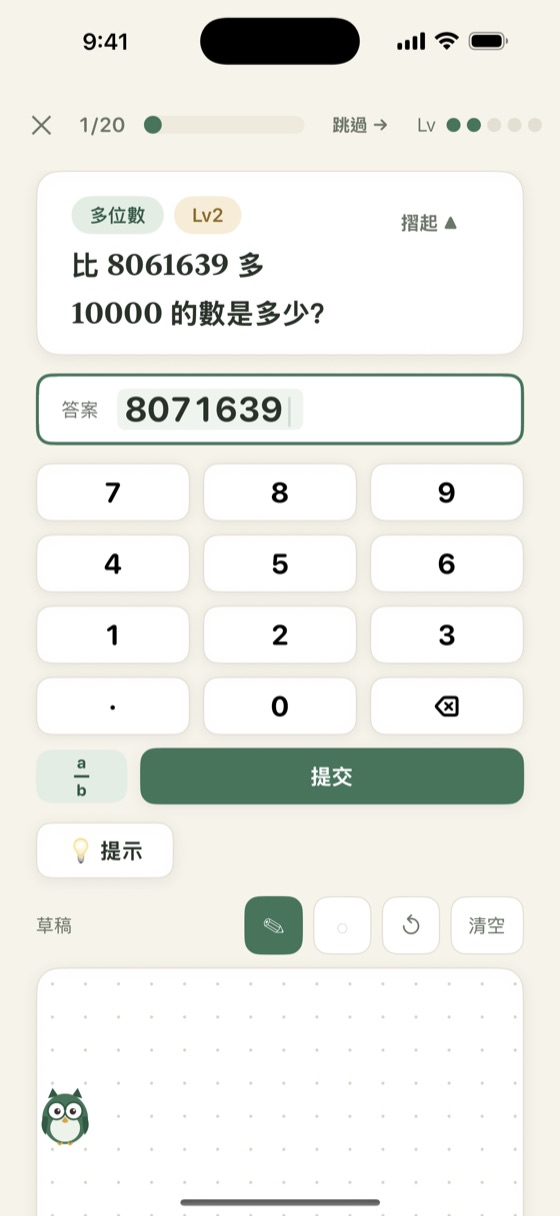
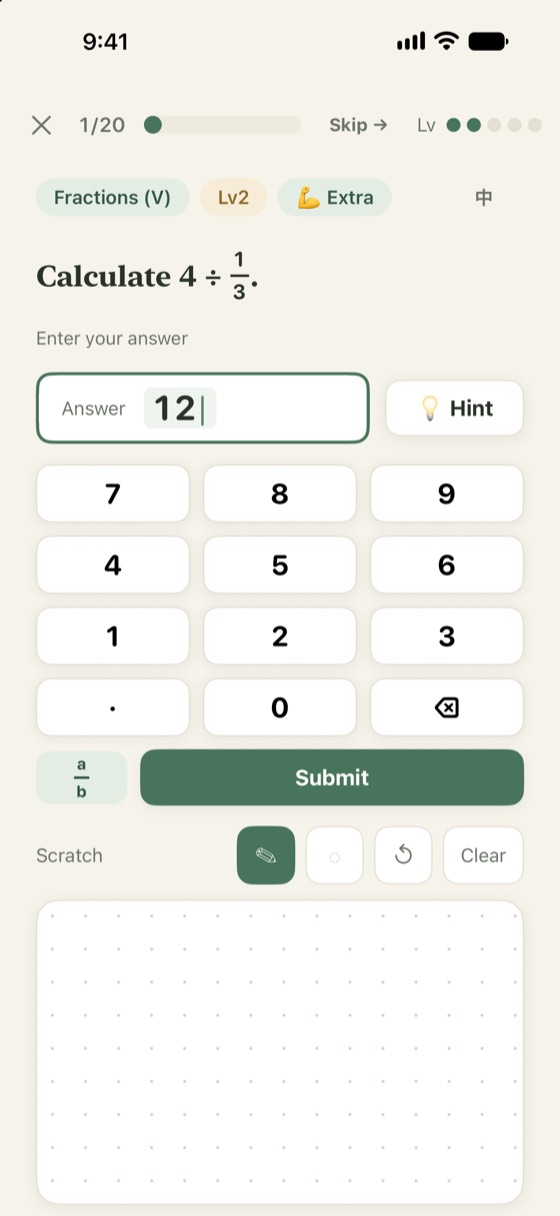
home: 換英文截圖 + 加每日速算(五張;hero 用速算結果頁)
示範檔案 Sam(P5)假數據,零真實小朋友資料。

diff --git a/index.html b/index.html
@@ -31,7 +31,7 @@
   .feature p { font-size: 15px; line-height: 1.6; color: var(--ink-soft); margin: 0; }
   .feature .tag { font-size: 12px; font-weight: 600; color: var(--moss); letter-spacing: .04em; text-transform: uppercase; }
 
-  .shots { display: grid; grid-template-columns: repeat(4, 1fr); gap: 16px; margin: 40px 0 8px; }
+  .shots { display: grid; grid-template-columns: repeat(5, 1fr); gap: 16px; margin: 40px 0 8px; }
   .shots figure { margin: 0; }
   .shots img { width: 100%; height: auto; border-radius: 18px; border: 1px solid var(--rule); display: block; }
   .shots figcaption { font-size: 13px; color: var(--ink-soft); margin-top: 8px; text-align: center; }
@@ -69,7 +69,7 @@
     </ul>
     <span class="cta">Coming soon to the App Store<small>iOS 17 or later</small></span>
   </div>
-  <div class="phone"><img src="img/S1_practice.jpg" alt="A practice question in MathApp" width="560" height="1216"></div>
+  <div class="phone"><img src="img/S3_speed.jpg" alt="Daily speed maths result in MathApp" width="560" height="1216"></div>
 </section>
 
 <section class="features">
@@ -107,7 +107,8 @@
 
 <section class="shots" aria-label="Screenshots">
   <figure><img src="img/S1_practice.jpg" alt="Practice screen" width="560" height="1216" loading="lazy"><figcaption>Practise by topic</figcaption></figure>
-  <figure><img src="img/S2_figure_chart.jpg" alt="Chart question" width="560" height="1216" loading="lazy"><figcaption>Diagram questions</figcaption></figure>
+  <figure><img src="img/S2_figure.jpg" alt="Diagram question" width="560" height="1216" loading="lazy"><figcaption>Diagram questions</figcaption></figure>
+  <figure><img src="img/S3_speed.jpg" alt="Daily speed maths result" width="560" height="1216" loading="lazy"><figcaption>Daily speed maths</figcaption></figure>
   <figure><img src="img/S4_parent_report.jpg" alt="Parent report" width="560" height="1216" loading="lazy"><figcaption>Parent report</figcaption></figure>
   <figure><img src="img/S5_bilingual.jpg" alt="Bilingual question" width="560" height="1216" loading="lazy"><figcaption>Bilingual questions</figcaption></figure>
 </section>
